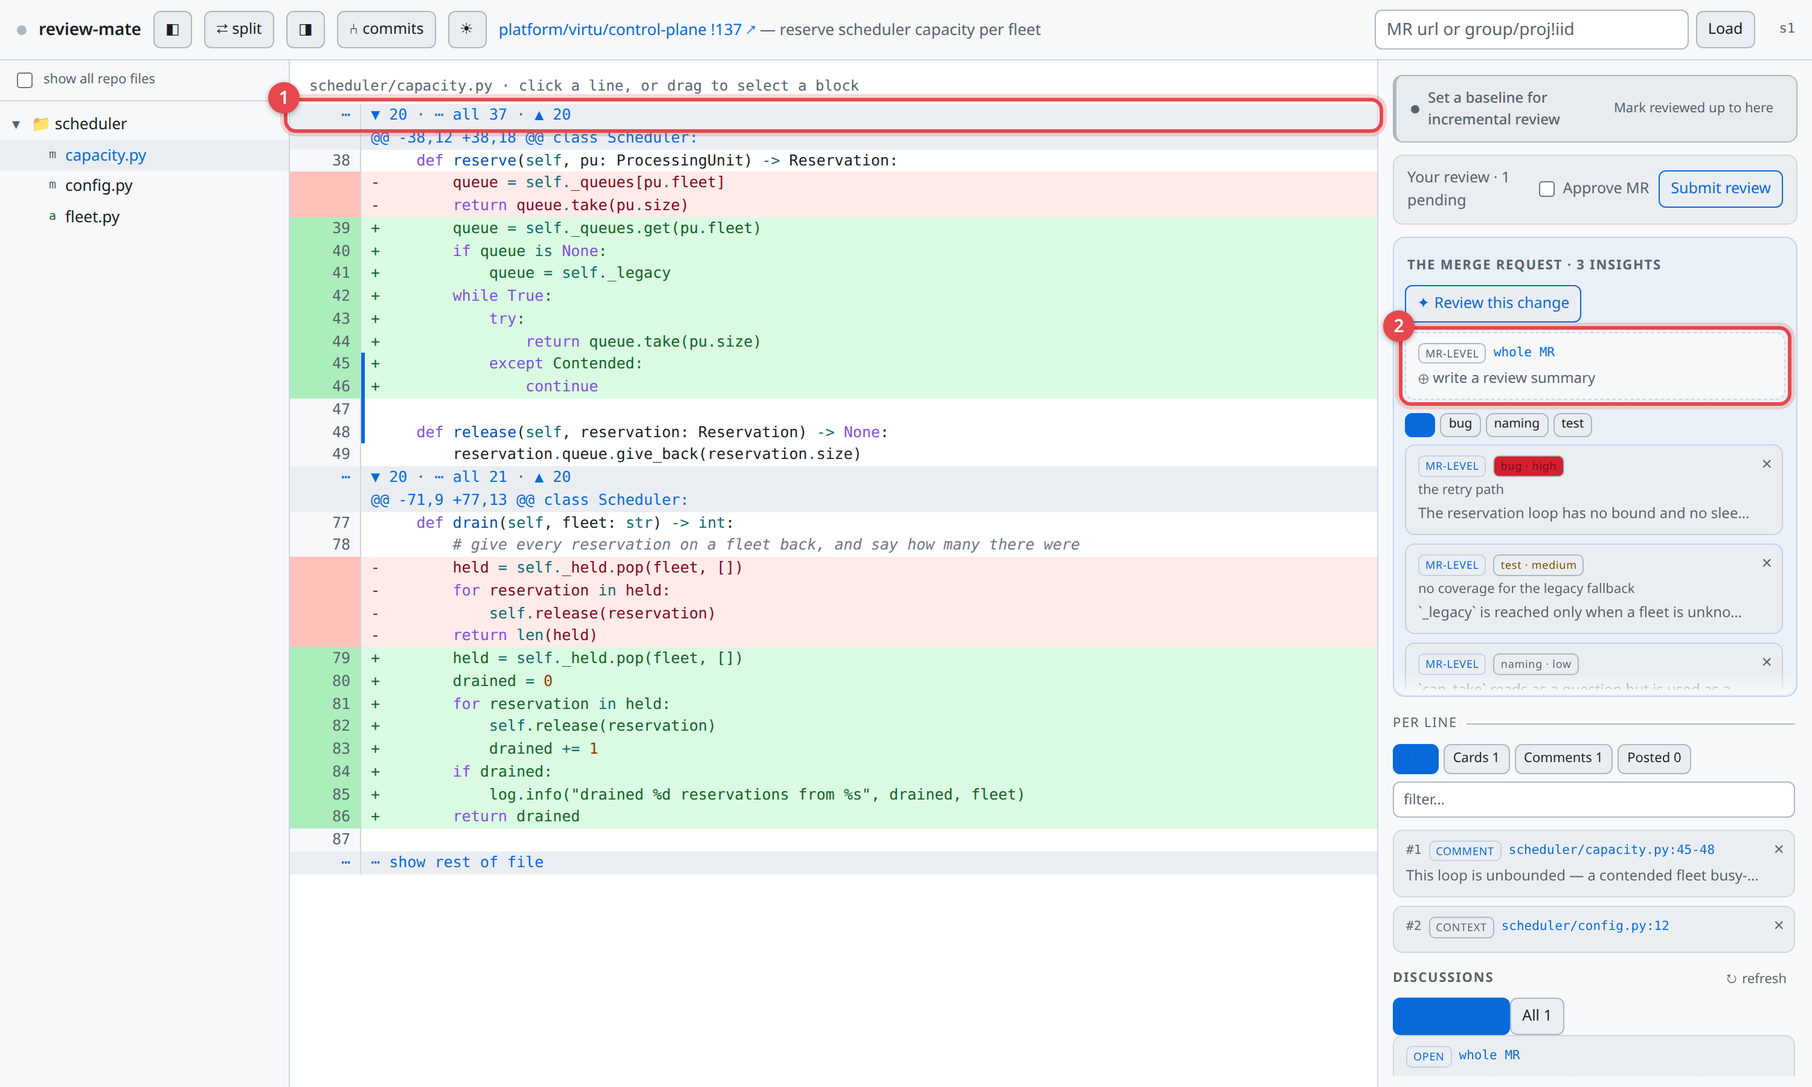
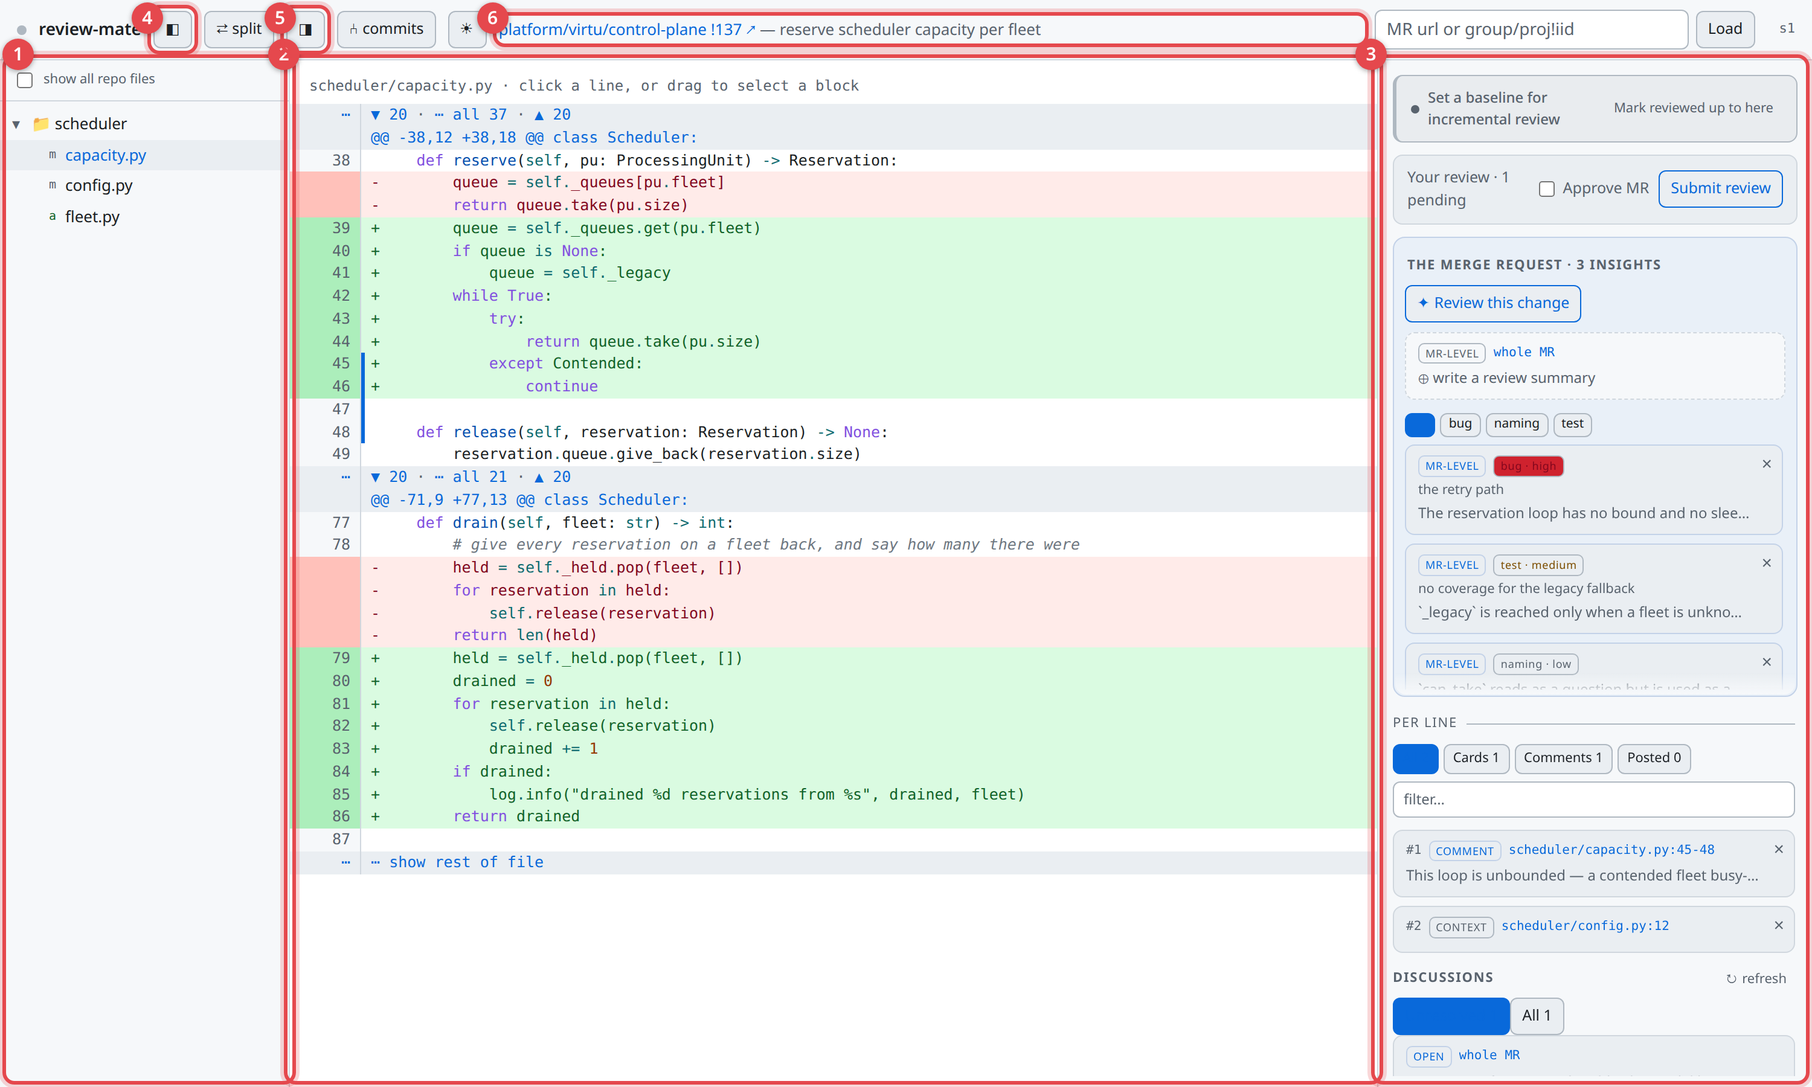
docs: make the feature tour follow the screen it describes
A review of the tour found prose that named things the reader could not locate,
paragraphs that read as lists of capabilities rather than as an explanation, and
a sentence that was simply wrong about how the tool works.

What the pictures now show that they did not. The landing page is introduced as
the landing page, with its three parts marked. Searching replaces that page with
results, which nothing prepared anyone for, so there is a picture of it and a
sentence saying it happens. Reading a change opens by saying there are three
panels, marks them, and marks the two buttons that hide the side ones — and the
split and per-commit views, which the section claimed to cover and never showed,
each have a picture. Light and dark were not mentioned at all.

What was wrong rather than missing: "escalate it, and the answer arrives as a
card" described the tool backwards. Marking lines is what produces the entry and
its context; asking Claude adds to something already there. The instruction to
"drag over the diff" now says which button to hold, and "cheap tier" is gone —
it was a development word about cost, which is not what a reader is being told
about.

What the writing-a-review section never explained: the counts above the per-line
list are filters over what state each marked range is in, which is the quickest
answer to "what have I actually written so far", and the merge request itself is
a subject with its own comment and its own conversation.
[…]

Changed region(s): [[0.0, 0.0, 1.0, 1.0]]

diff --git a/review_mate/web/app.js b/review_mate/web/app.js
@@ -711,6 +711,7 @@ async function showLanding() {
   renderOpenSessions(land, active);
 
   const head = document.createElement("div");
+  head.className = "queuehdr";      // its own name: two headings on this page, and only one queue
   head.innerHTML = `<h2>Pick a merge request</h2>`;
   land.appendChild(head);
   const queueBox = document.createElement("div");

diff --git a/tools/screenshots.py b/tools/screenshots.py
@@ -34,12 +34,24 @@ from webui.fixtures.host import StubHost  # noqa: E402
 from webui.fixtures.manager import FakeManager  # noqa: E402
 
 IMAGES = ROOT / "docs" / "images"
+HOST = StubHost()          # shots that need host-computed context set it here
+
+# what is waiting on the reviewer, so the landing page shows a queue rather than an empty heading
+QUEUE = [
+    {"host": "gitlab", "project": "platform/virtu/control-plane", "iid": 141,
+     "title": "drop the per-fleet lock from the fast path",
+     "url": "https://gitlab.example/mr/141"},
+    {"host": "gitlab", "project": "platform/orchestration/dr-house", "iid": 86,
+     "title": "allow a transfer with no user attached", "url": "https://gitlab.example/mr/86"},
+    {"host": "gitlab", "project": "platform/virtu/fleet-api", "iid": 12,
+     "title": "expose capacity per fleet", "url": "https://gitlab.example/mr/12"},
+]
 VIEWPORT = {"width": 1500, "height": 900}
 
 SHOTS: list = []
 
 
-def shot(name: str, description: str, shows: str, marks: tuple = ()):
+def shot(name: str, description: str, shows: str, marks: tuple = (), height: int | None = None):
     """Register a shot.
 
     `shows` is a selector that must be visible when the picture is taken. Without it a mis-aimed
@@ -53,7 +65,7 @@ def shot(name: str, description: str, shows: str, marks: tuple = ()):
     changes — it either lands on what it names or the run fails.
     """
     def register(fn):
-        SHOTS.append((name, description, shows, tuple(marks), fn))
+        SHOTS.append((name, description, shows, tuple(marks), height, fn))
         return fn
     return register
 
@@ -241,7 +253,8 @@ def showcase(session_id: str = "s1") -> SessionState:
 
 # --- the shots -----------------------------------------------------------------
 
-@shot("hub", "the landing page: what is open, and what is waiting on you", shows=".land")
+@shot("hub", "the landing page: what is open, and what is waiting on you", shows=".land",
+      marks=(("#ref", "1"), (".land .hubhdr", "2"), (".land .queuehdr", "3")), height=620)
 def _hub(page, base, stage):
     stage(showcase())
     page.goto(base)
@@ -249,9 +262,10 @@ def _hub(page, base, stage):
     page.wait_for_timeout(400)
 
 
-@shot("diff", "reading a change: the file tree, the diff, and the rail beside it",
+@shot("diff", "the three panels a change is read in",
       shows="table.hunk .add",
-      marks=(("table.hunk tr.expand", "1"), (".rail .hrow", "2")))
+      marks=(("#files", "1"), ("#diff", "2"), ("#rail", "3"),
+             ("#t-left", "4"), ("#t-right", "5"), ("#mr", "6")))
 def _diff(page, base, stage):
     stage(showcase())
     _open(page, base)
@@ -268,8 +282,8 @@ def _side_by_side(page, base, stage):
 
 @shot("claude-channel", "what Claude found on a line, and the conversation under it",
       shows="#detail .card",
-      marks=(("#detail .card", "1"), ("#detail .noteacts .btn", "2"),
-             ("#detail .channelnote", "3")))
+      marks=(("#detail .tabs, #detail .chathdr", "1"), ("#detail .card", "2"),
+             ("#detail .noteacts .btn", "3"), ("#detail .channelnote", "4")))
 def _claude(page, base, stage):
     stage(showcase())
     _open(page, base)
@@ -280,14 +294,77 @@ def _claude(page, base, stage):
 
 @shot("review-channel", "the comment you are preparing, which nobody else sees yet",
       shows="#detail textarea.draftbox",
-      marks=(("#detail textarea.draftbox", "1"), ("#detail .channelnote", "2"),
-             (".reviewbar .btn, .rbar .btn", "3")))
+      marks=(("#detail textarea.draftbox", "1"), ("#detail .channelnote", "2")))
 def _review(page, base, stage):
     stage(showcase())
     _open(page, base)
     page.locator("#hlist .hrow").first.click()
+    page.wait_for_selector("#detail .tab")
     page.locator("#detail .tab", has_text="Review").click()
+    page.wait_for_selector("#detail textarea.draftbox")
     page.wait_for_timeout(300)
+
+
+@shot("review-state", "what is written, what is sent, and what the merge request will see",
+      shows="#railseg .btn",
+      marks=(("#railseg", "1"), (".railpin .hrow.mr", "2"), (".rbar, .reviewbar", "3")))
+def _review_state(page, base, stage):
+    stage(showcase())
+    _open(page, base)
+    page.wait_for_selector("#railseg .btn")
+    page.wait_for_timeout(300)
+
+
+@shot("lookup", "finding a merge request by name, or by description when the name will not do",
+      shows=".land .searchresults",
+      marks=((".land .searchresults", "1"), (".land .askrow", "2")), height=620)
+def _lookup(page, base, stage):
+    stage(showcase())
+    HOST.search_hits = [
+        {"project": "platform/virtu/control-plane", "iid": 137,
+         "title": "reserve scheduler capacity per fleet", "url": "https://gitlab.example/mr/137"},
+        {"project": "platform/virtu/control-plane", "iid": 92,
+         "title": "retire the single queue", "url": "https://gitlab.example/mr/92"},
+    ]
+    page.goto(base)
+    page.wait_for_selector(".land")
+    box = page.locator("#ref")
+    box.fill("capacity")
+    box.dispatch_event("input")
+    page.wait_for_selector(".land .searchresults .qitem")
+    page.wait_for_timeout(400)
+
+
+@shot("per-commit", "reading the change one commit at a time",
+      shows="table.hunk .add",      # the commit's own diff, not just the picker above it
+      marks=(("#t-commits", "1"), ("#commitbar, .commitbar, .commits", "2")))
+def _per_commit(page, base, stage):
+    stage(showcase())
+    HOST.commit_list = [
+        {"sha": "9f3c1ab", "short_id": "9f3c1ab", "title": "reserve per fleet, falling back to legacy",
+         "message": "", "author": "luigi", "created_at": "2026-02-01T08:00:00+00:00"},
+        {"sha": "2b77e40", "short_id": "2b77e40", "title": "count what drain gave back",
+         "message": "", "author": "luigi", "created_at": "2026-02-01T08:30:00+00:00"},
+    ]
+    # a commit with no diff illustrates nothing — the mode shows one commit's own change
+    HOST.commit_files = {
+        "9f3c1ab": [FileEntry(path="scheduler/capacity.py", change_type=ChangeType.MODIFIED,
+                              language="python", hunks=[{"diff": CAPACITY}])],
+        "2b77e40": [FileEntry(path="scheduler/config.py", change_type=ChangeType.MODIFIED,
+                              language="python", hunks=[{"diff": CONFIG}])],
+    }
+    _open(page, base)
+    page.locator("#t-commits").click()
+    page.wait_for_timeout(600)
+
+
+@shot("dark", "the same review in the dark theme", shows="table.hunk .add",
+      marks=(("#t-theme", "1"),))
+def _dark(page, base, stage):
+    stage(showcase())
+    _open(page, base)
+    page.locator("#t-theme").click()
+    page.wait_for_timeout(400)
 
 
 @shot("insights", "Claude's own read of the change, worst first",
@@ -361,7 +438,7 @@ def _open(page, base):
 def main() -> int:
     IMAGES.mkdir(parents=True, exist_ok=True)
     manager = FakeManager()
-    app = create_app(manager=manager, provider=StubHost(), with_mcp=False,
+    app = create_app(manager=manager, provider=HOST, with_mcp=False,
                      resolve_ref=lambda raw: MRRef(host="gitlab", project="p", iid=1))
     config = uvicorn.Config(app, host="127.0.0.1", port=0, log_level="error")
     server = uvicorn.Server(config)
@@ -376,13 +453,21 @@ def main() -> int:
 
     def stage(state):
         manager.reset()
+        HOST.queue = list(QUEUE)
+        HOST.blame_lines = [{"author": "ana", "date": "2026-01-14", "sha": "4c1f0b2",
+                             "summary": "split the queue per fleet"}]
+        HOST.issues = [{"iid": 402, "title": "scheduler starves the legacy fleet",
+                        "url": "https://gitlab.example/issues/402"}]
+        app.state.rail_scope.reset()
         manager.put(state)
 
     written = []
     with sync_playwright() as pw:
         browser = pw.chromium.launch()
-        for name, description, shows, marks, take in SHOTS:
-            page = browser.new_page(viewport=VIEWPORT, device_scale_factor=2)
+        for name, description, shows, marks, height, take in SHOTS:
+            # a short page in a tall frame is mostly empty, and empty is not worth 400 kB
+            size = dict(VIEWPORT, height=height) if height else VIEWPORT
+            page = browser.new_page(viewport=size, device_scale_factor=2)
             try:
                 take(page, base, stage)
                 if not page.locator(shows).first.is_visible():

diff --git a/docs/features.md b/docs/features.md
@@ -1,63 +1,104 @@
 # What review-mate does
 
 The web UI is the native client — everything below is a screenshot of it. A terminal client covers
-the same protocol, and an agent reads the same folded views over MCP, but the browser is where the
-product is meant to be seen.
+the same protocol and an agent reads the same data over MCP, but the browser is where the product is
+meant to be seen.
 
 Every picture here is generated by `tools/screenshots.py`, which drives the real application. If a
 screen has changed, regenerate them rather than describing the difference.
 
 ## Finding something to review
 
+This is the landing page — where review-mate opens when it is not showing a particular change.
+
 ![The landing page](images/hub.png)
 
-Your open reviews, and below them the queue — merge requests where you are reviewer or assignee.
-Every entry is a real link, so you can middle-click a review into its own tab, and **Track** starts
-a session without leaving the queue. You can also paste an MR URL or `group/project!iid`, or search
-for one by description and let Claude find it when the search misses.
+> ① paste a merge request URL, or `group/project!iid`, or type words to search for one · ② reviews
+> you already have open, with what has happened to each since you last looked · ③ the queue: merge
+> requests where you are a reviewer or an assignee
 
-A review says what has happened to it since you last looked: the branch moved, discussions are
-open, it was merged or closed.
+Both lists are made of real links, so a review can be middle-clicked into its own tab. **Track**
+starts a session on a queued merge request without leaving the page, and a review you already have
+open says what changed while you were away: the branch moved, discussions were opened, it was
+merged or closed.
+
+Typing in the box at the top **replaces this page with search results** as you type — the landing
+page is not still behind it, and clearing the box brings it back.
+
+![Searching for a merge request](images/lookup.png)
+
+> ① what the forge matched, each one ready to track or open · ② the way through to Claude, for when
+> you can describe the change but not name it
+
+The search is the forge's own, so it matches titles and descriptions. When that is not enough —
+you remember what the change *did* but not what it was called — describe it instead and Claude
+looks for it. That box is separate from the search box on purpose: what a search wants is a term,
+and what Claude wants is a description, and overwriting one with the other would throw away the
+answer you are reading.
 
 ## Reading a change
 
-![A change, its files, and the rail](images/diff.png)
+A change is read in three panels, side by side.
 
-> ① the context between hunks, unfolded a screen at a time or all at once · ② the rail: everything
-> you have marked and everything Claude has said
+![The three panels](images/diff.png)
 
-The file tree on the left, the diff in the middle, the rail on the right. Syntax highlighting, a
-per-file view, and the hunks' surrounding context available inline — unfold between hunks, or open
-the rest of the file, read at the merge request's head.
+> ① the files in the change · ② the diff itself · ③ the review panel, which holds everything you
+> have marked and everything Claude has said · ④ ⑤ hide either side panel to give the diff the
+> width · ⑥ which change you are reading, linking back to it on the forge
 
-The rail is the index of everything you have marked and everything Claude has said, and it stays
-put while you move through files.
-
-![The same hunk with both versions side by side](images/side-by-side.png)
+The review panel stays put while you move between files, so what you have collected does not
+scroll away with the code. The diff has syntax highlighting, and the context between hunks can be
+unfolded a screen at a time or all at once — or you can open the rest of the file, read at the
+merge request's head.
 
 There is more here than a diff normally gives you. Files the change did not touch are browsable —
-the whole repository tree, not just what moved. Markdown renders as text rather than as a diff.
-A renamed file shows as a path divergence with both ends visible. And you can step through the
-change one commit at a time, which is often how work that arrived in several passes is read.
+the whole repository tree, not only what moved. Markdown renders as text rather than as a diff. A
+renamed file shows as a path divergence with both ends visible.
+
+**Two versions at once.** `⇄ split` puts the old and the new side by side instead of interleaved.
+
+![Side by side](images/side-by-side.png)
+
+**One commit at a time.** `⑃ commits` steps through the change commit by commit, which is usually
+how work that arrived in several passes is easiest to follow.
+
+![Per-commit review](images/per-commit.png)
+
+> ① switch into per-commit reading · ② the commits, in order, with the diff showing one at a time
 
 **Since your last review.** Mark a baseline, come back later, and see a normal per-file diff of what
-the author changed since — with target-branch noise excluded, so a rebase does not read as a
-hundred new files.
+the author changed since — with target-branch noise excluded, so a rebase does not read as a hundred
+new files.
+
+**Light or dark.** The theme toggle switches between them and the choice is remembered.
+
+![The dark theme](images/dark.png)
+
+> ① the theme toggle
 
 ## Asking about a line
 
+Press the left mouse button on a line in the diff and drag down to the last line you mean, then
+release. That marks the range, and an entry for it appears in the review panel on the right —
+along with what the host can already tell you about those lines: who last touched them, and any
+issue that references them. Nothing was asked of anyone to get that.
+
+Clicking that entry opens it.
+
 ![A card on a highlight, and the conversation beneath it](images/claude-channel.png)
 
-> ① what Claude found, anchored to the lines you marked · ② doubt a claim and ask for it to be
-> verified · ③ the reminder that this channel is yours alone
+> ① the two channels this subject has — see below · ② what Claude found, anchored to the lines you
+> marked · ③ doubt a claim and ask for it to be checked · ④ the reminder that this channel is yours
+> alone
 
-Drag over the diff to mark a range. That alone gets you the **cheap tier** immediately: who last
-touched those lines, which issues reference them — host facts, no agent involved and no agent turn
-spent.
+**The two tabs are two different audiences, and they never mix.** *Claude* is a private channel:
+the context, and a conversation about it that only you can see. *Review* is what the merge request
+will see — the comment you are preparing for everyone else. Nothing written in one can leave by the
+other, which is the reason they are separate tabs rather than one box.
 
-When you want more, escalate it. The answer arrives as a card anchored to the highlight, and the
-conversation under it is yours and Claude's alone — nothing written there reaches the merge request.
-If an answer looks wrong, **double-check** asks for it to be verified rather than taken on trust.
+When the automatic context is not enough, ask Claude for more and its answer arrives in the same
+place, anchored to the same lines. If an answer looks wrong, **double-check** (③) asks for it to be
+verified rather than taken on trust.
 
 A presence indicator says whether an agent is actually watching, so a slow answer never looks like
 a lost one.
@@ -90,12 +131,25 @@ the first time.
 
 ![The comment you are preparing](images/review-channel.png)
 
-> ① the comment, editable until you send it · ② who will see it, once you do · ③ what is waiting to
-> go, and the approval that can go with it
+> ① the comment, editable until you send it · ② who will see it, once you do
 
-Each highlight can carry a comment, and so can the merge request as a whole. Nothing reaches the
-host until you submit: you write the whole review, read it back, and send it in one go — with the
-approval, if you are giving one.
+Each marked range can carry a comment. Nothing reaches the forge as you write: you prepare the
+whole review, read it back, and send it in one go.
+
+![What is written, what is sent](images/review-state.png)
+
+> ① what state each marked line is in · ② the change as a whole: a summary comment, and a
+> conversation with Claude about the change rather than about one line · ③ what is waiting to go,
+> and the approval that can go with it
+
+The counts at ① are also filters. **Cards** are ranges you have collected context on and not written
+anything about; **Comments** are the ones with a comment prepared; **Posted** are the ones already
+on the merge request. It is the difference between what is still yours and what the team has seen,
+and it is the quickest way to answer "what have I actually written so far?".
+
+The merge request as a whole is a subject like any line is (②) — it takes a summary comment, and it
+has its own conversation with Claude, for the questions that are about the change rather than about
+one place in it.
 
 The merge request's existing discussions are here too. Filter to what is unresolved, jump from a
 thread to the line it is anchored to, reply, resolve, and edit or delete your own notes.
@@ -104,8 +158,8 @@ thread to the line it is anchored to, reply, resolve, and edit or delete your ow
 
 ![A branch under review, with a fix already landed](images/self-review.png)
 
-> ① named by where it is going, since there is no merge request number to show · ② the agent
-> changed the code here, so its lines moving is progress rather than a warning
+> ① named by where it is going, since there is no merge request number to show · ② the agent changed
+> the code here, so its lines moving is progress rather than a warning
 
 The same review, of a branch that has not left your machine — no merge request, nothing to post to,
 and no one else reading it yet. It is for work an agent has just written, read by the person about
@@ -114,14 +168,16 @@ to put their name on it.
 The difference is what a comment means. On a merge request you write a comment for the author to
 read later; here, the agent that wrote the code is watching, so a comment is answered — by
 discussion where you asked a question, and by changing the code where you asked for a change. A
-subject the agent has acted on says what it became, rather than warning you that your highlight is
-now out of date.
+subject the agent has acted on says what it became, rather than warning you that your marked lines
+are now out of date.
 
 Start it from an agent session with `/self-review`, and the agent hands you the link.
 
 ## Hosts
 
-**GitLab** — read and write, self-hosted or gitlab.com. The only forge implemented.
+**GitLab** — read and write, self-hosted or gitlab.com. The only forge implemented. Which project
+and merge request you are reading is in the header (⑥ in *Reading a change*), and it links back to
+the forge.
 
 **GitHub** — intended, and not built. Nothing in the review model is GitLab-shaped: what a forge can
 do is advertised as capabilities, and the parts of the UI a host cannot serve turn themselves off
@@ -129,4 +185,5 @@ rather than being special-cased. So a second forge is a provider behind the exis
 what the design buys, not a promise about when.
 
 **A branch on this machine** — needs git and nothing else. No forge, no token, and the review works
-the same way apart from the parts that need somewhere to post to.
+the same way apart from the parts that need somewhere to post to. The header then names the branch
+and links nowhere, because there is nowhere to go.
